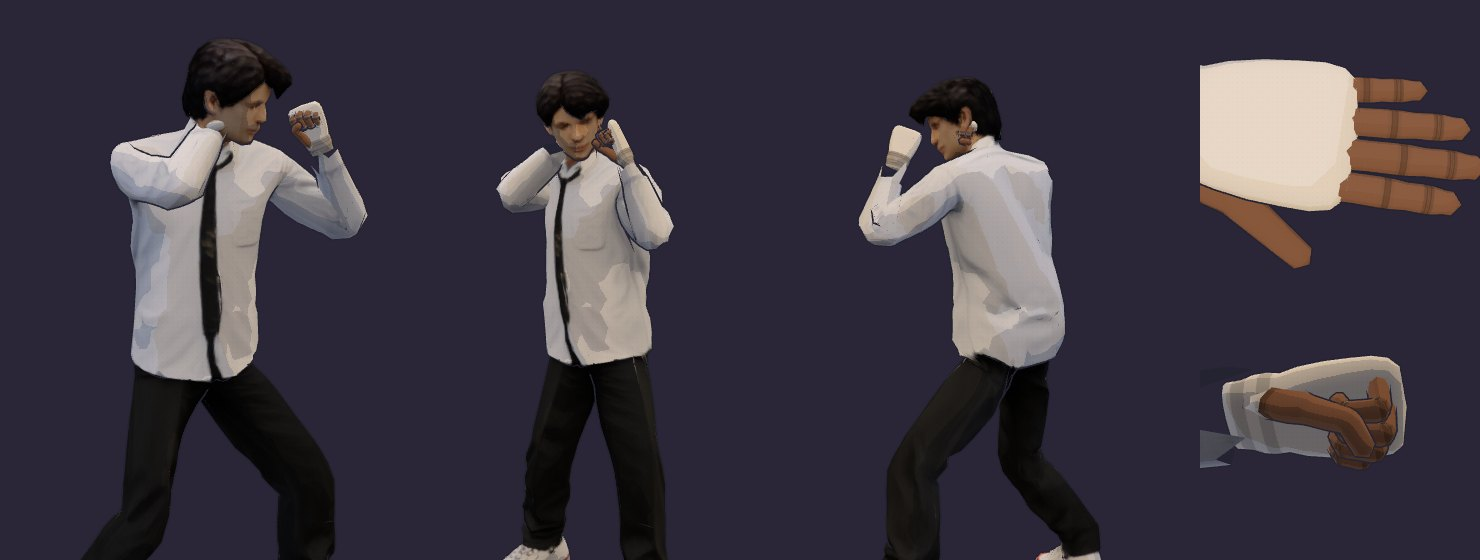
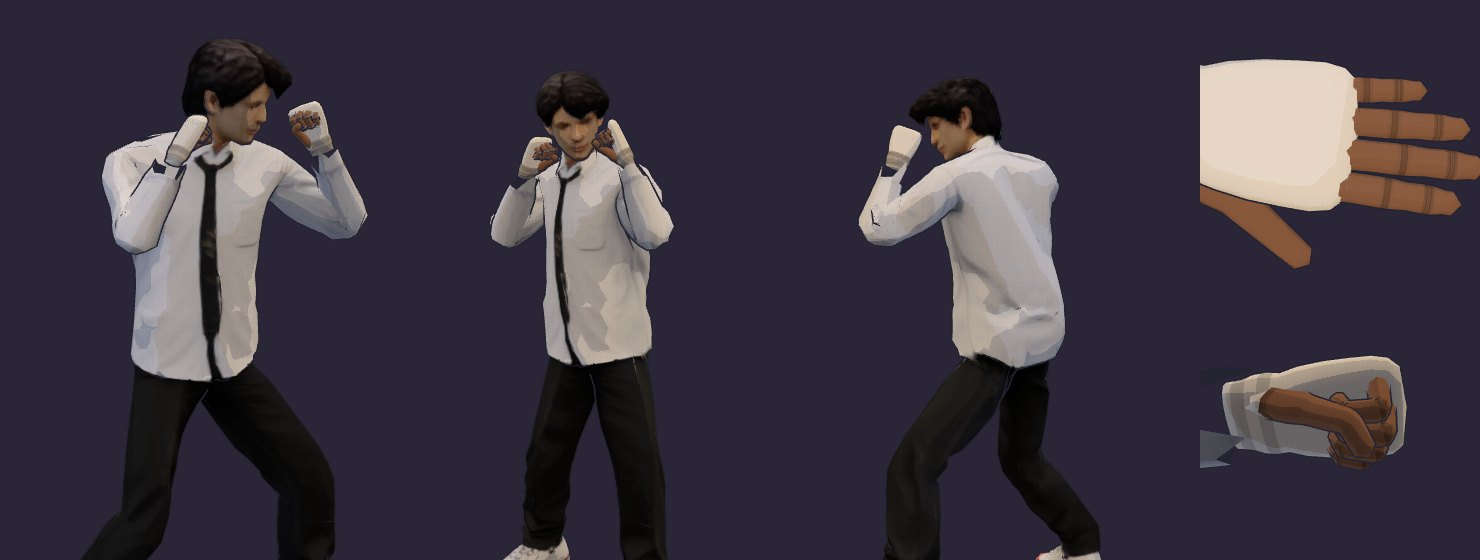
Keep Jai's fists out of his face: rear fist rests beside the jaw
The stance's rear hand target was tuned on the mannequin, whose arms are
longer than the model's, so Jai's right fist sat 4.9 cm inside his jaw and
only the wrist wrap showed. The block (Tutup muka) put both fists inside his
head, and several moves swept a fist through the head or shoulder.

- Stance: right fist rests 1.6 cm off the right jaw, forearm upright, elbow
  down and out; solved against the model's own posed mesh.
- Guard: fists side by side in front of the face; chest and neck pinned so
  the face points at the opponent.
- Moves: left cover during rear punches and the high kick, low kick and
  high kick rear hand, barge rear hand, headlock wrap and uppercut, and a
  haymaker recovery key that brings the fist round in front of the face.
- check-jai-rig.mjs measures how deep each fist sits under the body surface:
  none at the stance, guard and every key, at most a 2 cm brush between keys
  (now 1.3 cm), and the rear fist must rest beside the jaw.

Claude-Session: https://claude.ai/code/session_01NpR59V5bXzpjBPjccMKuxn

diff --git a/src/brawler.js b/src/brawler.js
@@ -6,20 +6,23 @@ import { over } from './keyframes.js';
 
 // Reference stance (Jai's photo): chest turned open over a left-foot lead,
 // head turned back to the opponent with the chin down. The lead fist is up
-// in front of the face, its elbow tucked; the rear fist, wrapped, sits at the
-// right jaw with the elbow flared out and down.
+// in front of the face, its elbow tucked; the rear fist, wrapped, rests just
+// off the right jaw, forearm upright and elbow down and out.
+// Hand targets are wrists for the mannequin; they are set so Jai's model's
+// fists rest against his face and body without sinking in, at every key and
+// while the body turns between keys (scripts/check-jai-rig.mjs).
 // Hand and foot targets are wrists and ankles in the fighter's space; e*/k*
 // are elbow and knee directions; r* = [toe-down pitch, yaw] of each foot;
 // g = [left, right] hand grip, 0 open to 1 a closed fist.
 export const STANCE = {
   hips: [.88, 0, -40, 0], spine: [8, 0, 0], chest: [0, -12, 0], neck: [8, 5, 0], head: [10, 48, 0],
-  hL: [.07, 1.42, .36], eL: [.35, -1, .05], hR: [-.12, 1.49, .15], eR: [-1, -.8, .25],
+  hL: [.07, 1.42, .36], eL: [.35, -1, .05], hR: [-.25, 1.39, .08], eR: [-.46, -1, -.28],
   fL: [.16, .075, .36], kL: [.15, 0, 1], fR: [-.22, .075, -.3], kR: [-.3, 0, 1], rL: [0, -15], rR: [10, -35],
   g: [1, 1], fwd: [0]
 };
 const P = part => over(STANCE, part), S = P({});
 const at = (fwd, part = {}) => P({ ...part, fwd: [fwd] });
-const GUARD_L = { hL: [.16, 1.5, .25] };
+const GUARD_L = { hL: [.2, 1.44, .28] };
 
 // hit: window [from, to] in seconds, the striking part, damage, where it
 // lands (head, body, low) and knockback in metres.
@@ -33,14 +36,15 @@ export const MOVES = {
     [.16, at(.08, { hips: [.92, 0, 10, 0], chest: [0, 30, 0], head: [5, -40, 0], hR: [-.02, 1.55, .95], eR: [-1, -.3, 0], ...GUARD_L, fR: [-.14, .1, -.2], rR: [30, -10] })], [.38, at(.08)]],
     hits: [{ t: [.07, .17], part: 'handR', dmg: 6, zone: 'head', knock: .25 }] },
   uppercut: { name: 'Uppercut', cost: 10, dur: .52, keys: [[0, S],
-    [.11, P({ hips: [.82, 0, -35, 0], spine: [22, 0, 0], head: [0, 35, 0], hL: [.2, 1.1, .3], eL: [.6, -1, 0] })],
+    [.11, P({ hips: [.82, 0, -35, 0], spine: [22, 0, 0], head: [0, 35, 0], hL: [.2, 1.1, .3], eL: [.6, -1, 0], hR: [-.27, 1.42, .07] })],
     [.22, at(.16, { hips: [.95, 0, -5, 0], spine: [-6, 0, 0], chest: [0, -25, 0], head: [-5, 30, 0], hL: [.04, 1.75, .55], eL: [.3, -1, .2] })],
     [.3, at(.16, { hips: [.95, 0, -5, 0], spine: [-6, 0, 0], chest: [0, -25, 0], head: [-5, 30, 0], hL: [.04, 1.75, .55], eL: [.3, -1, .2] })], [.52, at(.16)]],
     hits: [{ t: [.16, .28], part: 'handL', dmg: 9, zone: 'head', knock: .45 }] },
   haymaker: { name: 'Haymaker', cost: 18, dur: .78, keys: [[0, S],
     [.2, P({ hips: [.9, 0, -50, 0], chest: [0, -20, 0], head: [5, 70, 0], hR: [-.5, 1.5, -.25], eR: [-.3, -1, -.5], hL: [.2, 1.45, .4] })],
     [.33, at(.15, { hips: [.9, 0, 25, 0], chest: [0, 35, 0], head: [5, -60, 0], hR: [.15, 1.55, .75], eR: [-1, .2, 0], ...GUARD_L, fR: [-.14, .1, -.2], rR: [30, -10] })],
-    [.43, at(.18, { hips: [.9, 0, 40, 0], chest: [0, 45, 0], head: [5, -75, 0], hR: [.35, 1.45, .5], eR: [-1, .2, 0], ...GUARD_L, fR: [-.14, .1, -.2], rR: [30, -10] })], [.78, at(.18)]],
+    [.43, at(.18, { hips: [.9, 0, 40, 0], chest: [0, 45, 0], head: [5, -75, 0], hR: [.35, 1.45, .5], eR: [-1, .2, 0], ...GUARD_L, fR: [-.14, .1, -.2], rR: [30, -10] })],
+    [.6, at(.18, { hips: [.89, 0, 2, 0], chest: [0, 18, 0], head: [7, -16, 0], hR: [-.07, 1.34, .42], eR: [-.74, -.37, -.13], ...GUARD_L, fR: [-.18, .09, -.25], rR: [20, -22] })], [.78, at(.18)]],
     hits: [{ t: [.27, .38], part: 'handR', dmg: 14, zone: 'head', knock: .8, heavy: true }] },
   pushKick: { name: 'Push kick', cost: 12, dur: .66, keys: [[0, S],
     [.15, P({ hips: [.9, 0, -20, 0], spine: [-5, 0, 0], fL: [.1, .55, .45], kL: [0, 1, 1] })],
@@ -49,16 +53,16 @@ export const MOVES = {
     [.5, P({ hips: [.9, 0, -20, 0], fL: [.1, .45, .35], kL: [0, 1, 1] })], [.66, S]],
     hits: [{ t: [.22, .36], part: 'footL', dmg: 8, zone: 'body', knock: 1 }] },
   lowKick: { name: 'Low kick', cost: 10, dur: .6, keys: [[0, S],
-    [.14, at(.09, { hips: [.9, 0, 30, 0], chest: [0, 20, 0], head: [5, -50, 0], fR: [-.35, .35, .15], kR: [-1, .6, .5], rR: [30, 40], rL: [0, 40] })],
+    [.14, at(.09, { hips: [.9, 0, 30, 0], chest: [0, 20, 0], head: [5, -50, 0], fR: [-.35, .35, .15], kR: [-1, .6, .5], rR: [30, 40], rL: [0, 40], hR: [-.3, 1.45, .12] })],
     [.26, at(.18, { hips: [.9, 0, 70, 0], chest: [0, 15, 0], head: [5, -85, 0], fR: [.1, .45, .7], kR: [-.5, 1, .6], rR: [40, 90], rL: [0, 40], hR: [-.35, 1.1, -.2] })],
     [.34, at(.18, { hips: [.9, 0, 70, 0], chest: [0, 15, 0], head: [5, -85, 0], fR: [.1, .45, .7], kR: [-.5, 1, .6], rR: [40, 90], rL: [0, 40], hR: [-.35, 1.1, -.2] })],
-    [.46, at(.18, { hips: [.9, 0, 25, 0], chest: [0, 15, 0], head: [5, -40, 0], fR: [-.28, .3, .18], kR: [-1, .6, .6], rR: [30, 30], rL: [0, 25] })], [.6, at(.18)]],
+    [.46, at(.18, { hips: [.9, 0, 25, 0], chest: [0, 15, 0], head: [5, -40, 0], fR: [-.28, .3, .18], kR: [-1, .6, .6], rR: [30, 30], rL: [0, 25], hR: [-.3, 1.45, .12] })], [.6, at(.18)]],
     hits: [{ t: [.2, .34], part: 'footR', dmg: 7, zone: 'low', knock: .2 }] },
   roundhouse: { name: 'Tendang hayun', cost: 16, dur: .82, keys: [[0, S],
-    [.16, at(.05, { hips: [.9, 0, 40, 0], chest: [0, 10, 0], head: [5, -50, 0], fR: [-.3, .7, .2], kR: [-1, 1, .5], rR: [30, 40], rL: [0, 60], hR: [-.3, 1.2, -.1], ...GUARD_L })],
+    [.16, at(.05, { hips: [.9, 0, 40, 0], chest: [0, 10, 0], head: [5, -50, 0], fR: [-.3, .7, .2], kR: [-1, 1, .5], rR: [30, 40], rL: [0, 60], hR: [-.38, 1.12, -.1], ...GUARD_L })],
     [.3, at(.1, { hips: [.9, 0, 85, 0], spine: [-10, 0, -20], chest: [0, 0, 0], head: [10, -85, 10], fR: [.15, 1.45, .8], kR: [-.6, 1, .3], rR: [45, 90], rL: [0, 70], hR: [-.35, 1, -.35], eR: [-1, -1, 0], ...GUARD_L })],
     [.38, at(.1, { hips: [.9, 0, 95, 0], spine: [-10, 0, -20], chest: [0, 0, 0], head: [10, -90, 10], fR: [.35, 1.35, .6], kR: [-.6, 1, .3], rR: [45, 100], rL: [0, 75], hR: [-.35, 1, -.35], eR: [-1, -1, 0], ...GUARD_L })],
-    [.52, at(.1, { hips: [.9, 0, 50, 0], chest: [0, 10, 0], head: [5, -60, 0], fR: [-.22, .62, .3], kR: [-.6, 1, .8], rR: [30, 40], rL: [0, 55], ...GUARD_L })], [.82, at(.1)]],
+    [.52, at(.1, { hips: [.9, 0, 50, 0], chest: [0, 10, 0], head: [5, -60, 0], fR: [-.22, .62, .3], kR: [-.6, 1, .8], rR: [30, 40], rL: [0, 55], hR: [-.35, 1.36, .16], ...GUARD_L })], [.82, at(.1)]],
     hits: [{ t: [.25, .4], part: 'footR', dmg: 13, zone: 'head', knock: .9, heavy: true }] },
   knee: { name: 'Lutut', cost: 10, dur: .56, keys: [[0, S],
     [.12, P({ hL: [.12, 1.5, .7], hR: [-.1, 1.5, .7], eL: [.5, -1, 0], eR: [-.5, -1, 0] })],
@@ -66,10 +70,10 @@ export const MOVES = {
     [.32, at(.27, { hips: [.95, 0, 0, 0], spine: [-10, 0, 0], chest: [0, 0, 0], head: [5, 0, 0], hL: [.1, 1.3, .55], hR: [-.1, 1.3, .55], eL: [.5, -1, 0], eR: [-.5, -1, 0], fR: [-.08, .75, .25], kR: [0, .6, 1], rR: [40, 0] })], [.56, at(.27)]],
     hits: [{ t: [.18, .32], part: 'kneeR', dmg: 10, zone: 'body', knock: .5 }] },
   barge: { name: 'Rempuh', cost: 14, dur: .72, keys: [[0, S],
-    [.18, P({ hips: [.82, 0, -70, 0], spine: [25, 0, 0], chest: [0, -15, 0], head: [-10, 85, 0], hL: [.15, 1.3, .15], hR: [-.05, 1.3, .12], eL: [1, -1, 0], eR: [-1, -1, 0], fL: [.15, .075, .3], fR: [-.2, .075, -.28] })],
-    [.27, at(.35, { hips: [.84, 0, -70, 0], spine: [25, 0, 0], chest: [0, -15, 0], head: [-10, 85, 0], hL: [.15, 1.3, .15], hR: [-.05, 1.3, .12], eL: [1, -1, 0], eR: [-1, -1, 0], fL: [.15, .075, .1], fR: [-.1, .2, .05] })],
-    [.36, at(.8, { hips: [.86, 0, -70, 0], spine: [25, 0, 0], chest: [0, -15, 0], head: [-10, 85, 0], hL: [.15, 1.3, .15], hR: [-.05, 1.3, .12], eL: [1, -1, 0], eR: [-1, -1, 0], fL: [.15, .075, .3], fR: [-.18, .075, -.2] })],
-    [.44, at(.8, { hips: [.86, 0, -70, 0], spine: [25, 0, 0], chest: [0, -15, 0], head: [-10, 85, 0], hL: [.15, 1.3, .15], hR: [-.05, 1.3, .12], eL: [1, -1, 0], eR: [-1, -1, 0], fL: [.15, .075, .3], fR: [-.18, .075, -.2] })], [.72, at(.8)]],
+    [.18, P({ hips: [.82, 0, -70, 0], spine: [25, 0, 0], chest: [0, -15, 0], head: [-10, 85, 0], hL: [.15, 1.3, .15], hR: [-.47, 1.32, .03], eL: [1, -1, 0], eR: [-1, -1, 0], fL: [.15, .075, .3], fR: [-.2, .075, -.28] })],
+    [.27, at(.35, { hips: [.84, 0, -70, 0], spine: [25, 0, 0], chest: [0, -15, 0], head: [-10, 85, 0], hL: [.15, 1.3, .15], hR: [-.47, 1.32, .03], eL: [1, -1, 0], eR: [-1, -1, 0], fL: [.15, .075, .1], fR: [-.1, .2, .05] })],
+    [.36, at(.8, { hips: [.86, 0, -70, 0], spine: [25, 0, 0], chest: [0, -15, 0], head: [-10, 85, 0], hL: [.15, 1.3, .15], hR: [-.47, 1.32, .03], eL: [1, -1, 0], eR: [-1, -1, 0], fL: [.15, .075, .3], fR: [-.18, .075, -.2] })],
+    [.44, at(.8, { hips: [.86, 0, -70, 0], spine: [25, 0, 0], chest: [0, -15, 0], head: [-10, 85, 0], hL: [.15, 1.3, .15], hR: [-.47, 1.32, .03], eL: [1, -1, 0], eR: [-1, -1, 0], fL: [.15, .075, .3], fR: [-.18, .075, -.2] })], [.72, at(.8)]],
     hits: [{ t: [.24, .42], part: 'shoulderL', dmg: 8, zone: 'body', knock: 1.5 }] },
   taunt: { name: 'Ejek', cost: 0, dur: 1.3, gain: 25, keys: [[0, S],
     [.3, P({ hips: [.95, 0, 0, 0], spine: [-12, 0, 0], chest: [0, 0, 0], head: [-15, 0, 0], hL: [.55, 1.25, .2], hR: [-.55, 1.25, .2], eL: [0, -1, -1], eR: [0, -1, -1], fL: [.15, .075, .1], fR: [-.15, .075, -.1], rL: [0, 10], rR: [0, -10], g: [0, 0] })],
@@ -80,8 +84,8 @@ export const MOVES = {
 
 // The headlock: wrap the left arm round the opponent's neck, three short
 // uppercuts, then shove them off. `grab` is when the opponent is held.
-const WRAP = { hips: [.88, 0, -40, 0], spine: [20, 0, 0], chest: [0, -15, 0], head: [10, 55, 0], hL: [0, 1.15, .35], eL: [1, .2, .4] };
-const DIP = { ...WRAP, hR: [-.15, 1, .25], eR: [-.4, -1, 0] }, UP = { ...WRAP, hR: [-.02, 1.25, .55], eR: [-.3, -1, .3] };
+const WRAP = { hips: [.88, 0, -40, 0], spine: [20, 0, 0], chest: [0, -15, 0], head: [10, 55, 0], hL: [0, 1.15, .35], eL: [1, .2, .4], hR: [-.36, 1.34, .1] };
+const DIP = { ...WRAP, hR: [-.15, 1, .25], eR: [-.4, -1, 0] }, UP = { ...WRAP, hR: [-.1, 1.25, .55], eR: [-.3, -1, .3] };
 MOVES.headlock = { name: 'Kepit kepala', cost: 20, dur: 2.4, reach: 1.15, grab: [.3, 2.02], keys: [[0, S],
   [.22, at(.1, { spine: [15, 0, 0], hL: [.3, 1.4, .75], eL: [1, .3, 0], hR: [-.05, 1.4, .6] })],
   [.4, at(.1, WRAP)], [.55, at(.1, DIP)], [.7, at(.1, UP)], [.9, at(.1, DIP)], [1.15, at(.1, UP)], [1.35, at(.1, DIP)], [1.6, at(.1, UP)], [1.85, at(.1, DIP)],
@@ -135,8 +139,8 @@ export function tick(f, dt) {
 export const activeHits = f => f.move ? MOVES[f.move].hits.map((h, i) => ({ i, ...h })).filter(h => f.t >= h.t[0] && f.t <= h.t[1]) : [];
 export const grabbing = f => f.move === 'headlock' && f.t >= MOVES.headlock.grab[0] && f.t <= MOVES.headlock.grab[1];
 
-// Covering up: both forearms in front of the face, chin down, knees bent.
-export const GUARD = P({ hips: [.88, 0, -25, 0], spine: [14, 0, 0], head: [12, 15, 0], hL: [.08, 1.6, .24], eL: [.5, -1, .1], hR: [-.08, 1.6, .22], eR: [-.5, -1, .1] });
+// Covering up: both fists side by side in front of the face, chin down, knees bent.
+export const GUARD = P({ hips: [.88, 0, -25, 0], spine: [14, 0, 0], chest: [0, 5, 0], neck: [4, 0, 0], head: [12, 15, 0], hL: [.02, 1.36, .39], eL: [.5, -1, .1], hR: [-.2, 1.35, .36], eR: [-.5, -1, .1] });
 // The sparring partner: a loose stance, a reaction for each zone, and the
 // bent-over shape inside the headlock.
 const IDLE = P({ hips: [.93, 0, -15, 0], spine: [4, 0, 0], chest: [0, 5, 0], neck: [4, 0, 0], head: [3, 10, 0], hL: [.16, 1.3, .3], eL: [.65, -1, .1], hR: [-.12, 1.32, .24], eR: [-.65, -1, .1] });

diff --git a/tests/brawler.test.js b/tests/brawler.test.js
@@ -77,9 +77,9 @@ test('a tireless fighter attacks forever', () => {
 });
 
 test('the stance follows Jai\'s reference photo and the taunt opens his hands', () => {
-  // Lead fist up in front of the face, rear fist tucked at the jaw with its elbow flared out.
+  // Lead fist up in front of the face, rear fist beside the right jaw with its elbow down and out.
   assert.ok(STANCE.hL[2] > STANCE.hR[2] + .1 && STANCE.hL[1] > 1.35, 'lead fist out in front of the face');
-  assert.ok(STANCE.hR[0] < 0 && STANCE.eR[0] <= -1 && STANCE.eL[1] <= -1, 'rear elbow flared, lead elbow down');
+  assert.ok(STANCE.hR[0] < -.2 && STANCE.eR[0] < 0 && STANCE.eR[1] <= -1 && STANCE.eL[1] <= -1, 'rear fist out at the jaw, both elbows down');
   assert.ok(STANCE.hips[2] < -30 && STANCE.head[1] > 40, 'chest turned open, head back to the opponent');
   assert.deepEqual(STANCE.g, [1, 1], 'both hands closed');
   assert.ok(MOVES.taunt.keys.some(([, p]) => p.g[0] < .5 && p.g[1] < .5), 'the taunt beckons with open hands');

diff --git a/README.md b/README.md
@@ -26,7 +26,9 @@ Masa latihan stamina tak terhad, jadi boleh serang tanpa henti. Butang "Penat" d
 
 Bantuan jarak: kalau serangan dimula bila lawan sedikit jauh (sampai lebih kurang 0.6 m dari jarak ideal), Jai melangkah masuk sendiri sebelum pukulan sampai. Lebih jauh dari tu, pukulan tersasar.
 
-**Kekuda (v0.6.0, ikut gambar rujukan Jai).** Gaya jalanan: dada terbuka dan berpusing ke kanan atas kaki kiri yang di depan, kepala berpaling semula ke lawan dengan dagu direndahkan. Penumbuk kiri naik di depan muka, sikunya rapat ke bawah. Penumbuk kanan yang berbalut rapat di rahang kanan, sikunya terbuka ke sisi dan ke bawah. Kedua-dua tangan digenggam jadi penumbuk; masa Ejek tangan dibuka untuk panggil lawan. Setiap serangan kembali kepada kekuda ini.
+**Kekuda (v0.6.0, ikut gambar rujukan Jai).** Gaya jalanan: dada terbuka dan berpusing ke kanan atas kaki kiri yang di depan, kepala berpaling semula ke lawan dengan dagu direndahkan. Penumbuk kiri naik di depan muka, sikunya rapat ke bawah. Penumbuk kanan yang berbalut berehat betul-betul di sebelah rahang kanan (lebih kurang 1.6 cm dari muka, jelas kelihatan), lengan bawah tegak dan siku ke bawah dan ke luar. Kedua-dua tangan digenggam jadi penumbuk; masa Ejek tangan dibuka untuk panggil lawan. Setiap serangan kembali kepada kekuda ini.
+
+Sasaran tangan dalam kekuda, Tutup muka dan setiap gerak dipilih supaya penumbuk model Jai menyentuh muka dan badan tetapi tidak tenggelam ke dalamnya, pada setiap keyframe dan semasa badan berpusing antara keyframe. Tutup muka kini meletakkan kedua-dua penumbuk sebelah-menyebelah di depan muka (dulu ia masuk ke dalam kepala). `scripts/check-jai-rig.mjs` mengukur sedalam mana penumbuk masuk ke badan: 0 pada keyframe, paling banyak 1.3 cm sekejap antara keyframe.
 
 **Nafas.** Masa berdiri, dada Jai naik turun (lebih kurang sekali setiap 3 saat) dan badannya bergoyang sedikit macam peninju: berat badan beralih, kepala dan tangan bergerak, lutut lentur. Bila menyerang, dia tarik nafas dan tahan. Lepas serangan habis, nafas dihembus cepat, kemudian kembali ke rentak biasa. Makin banyak bergerak dan menyerang, makin laju dan dalam nafasnya, dan bila rehat ia reda semula. Kawan latih pun bernafas, dan lebih kuat selepas kena pukul. Logik nafas dalam `src/breath.js` (diuji dalam `tests/breath.test.js`).
 
@@ -45,7 +47,7 @@ blender -b --python scripts/rig-jai.py -- assets/models/jai-source.glb assets/mo
 - **Tangan.** Tangan sarung asal dibuang dan diganti tangan lima jari yang dimodelkan (tapak dan pergelangan berbalut putih macam dalam gambar rujukan). Genggaman setiap jari disimpan dalam `extras.grip`; sudut ibu jari dikira supaya ia melintang di atas jari telunjuk dan jari tengah.
 - Eksport 509 KiB, 7,423 segi tiga, satu tekstur JPEG 1024². `jai-fighter.blend` mengandungi mesh, rangka, kumpulan berat, tekstur packed dan aksi `Fist` untuk diedit.
 
-`src/fighter.js` memuat model ini atas rangkanya sendiri; `src/retarget.js` menggerakkan badan ikut mannequin (pada skala 1), kemudian tangan digenggam ikut saluran `g` dalam pose dan nafas menskala `ribs`/`belly`. `npm test` menyemak semua sendi wujud dan menggerakkan kulit, berat dinormalkan, permukaan menghadap keluar, dan 145 pose gerak dengan kod game sebenar: tangan jadi penumbuk, pergelangan lurus, dada bernafas, dan tiada kulit terkoyak.
+`src/fighter.js` memuat model ini atas rangkanya sendiri; `src/retarget.js` menggerakkan badan ikut mannequin (pada skala 1), kemudian tangan digenggam ikut saluran `g` dalam pose dan nafas menskala `ribs`/`belly`. `npm test` menyemak semua sendi wujud dan menggerakkan kulit, berat dinormalkan, permukaan menghadap keluar, dan 210 pose dan keyframe dengan kod game sebenar: tangan jadi penumbuk, pergelangan lurus, penumbuk tidak masuk ke badan, penumbuk kanan di sebelah rahang dalam kekuda, dada bernafas, dan tiada kulit terkoyak.
 
 ![Kekuda Jai v0.6.0: sudut gambar rujukan, pandangan lawan, sisi, tangan terbuka dan penumbuk](assets/previews/jai-stance-v060.jpg)
 
